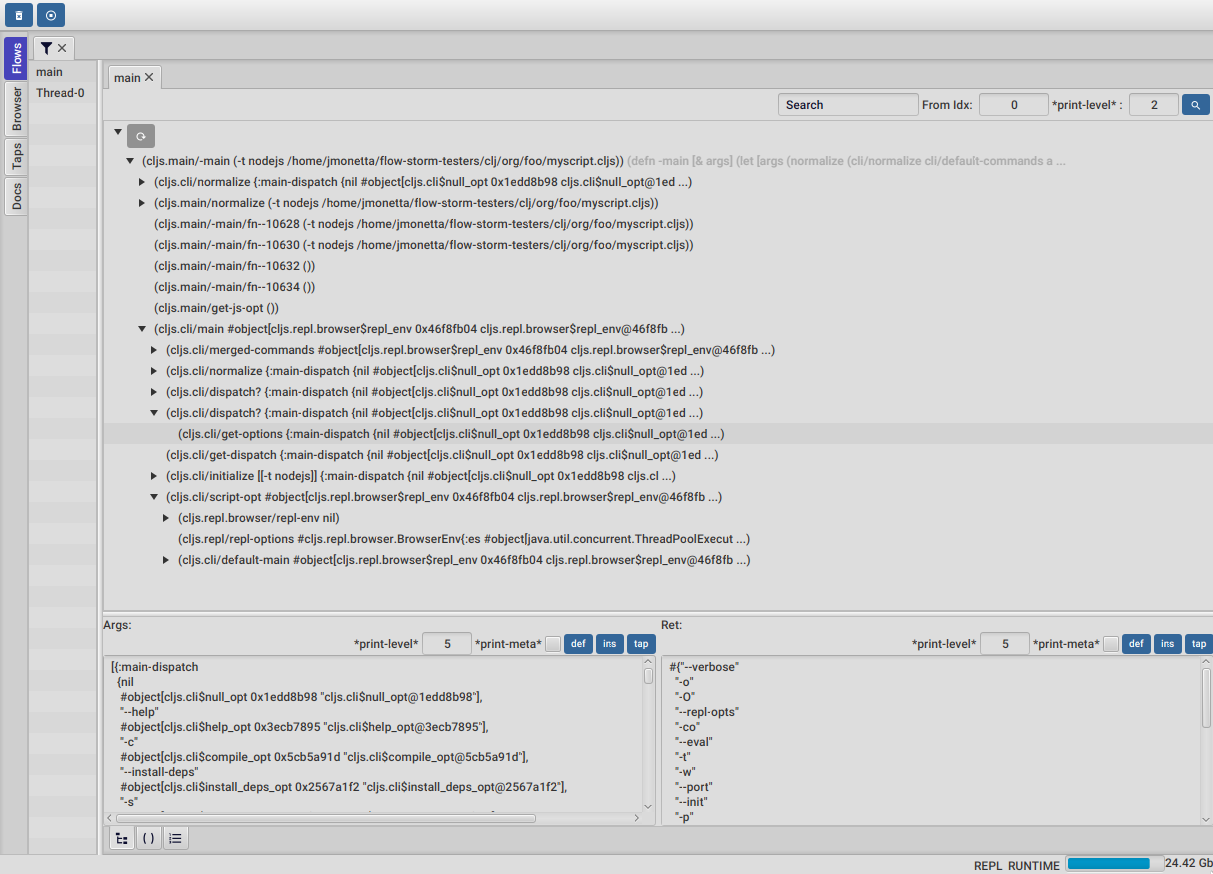
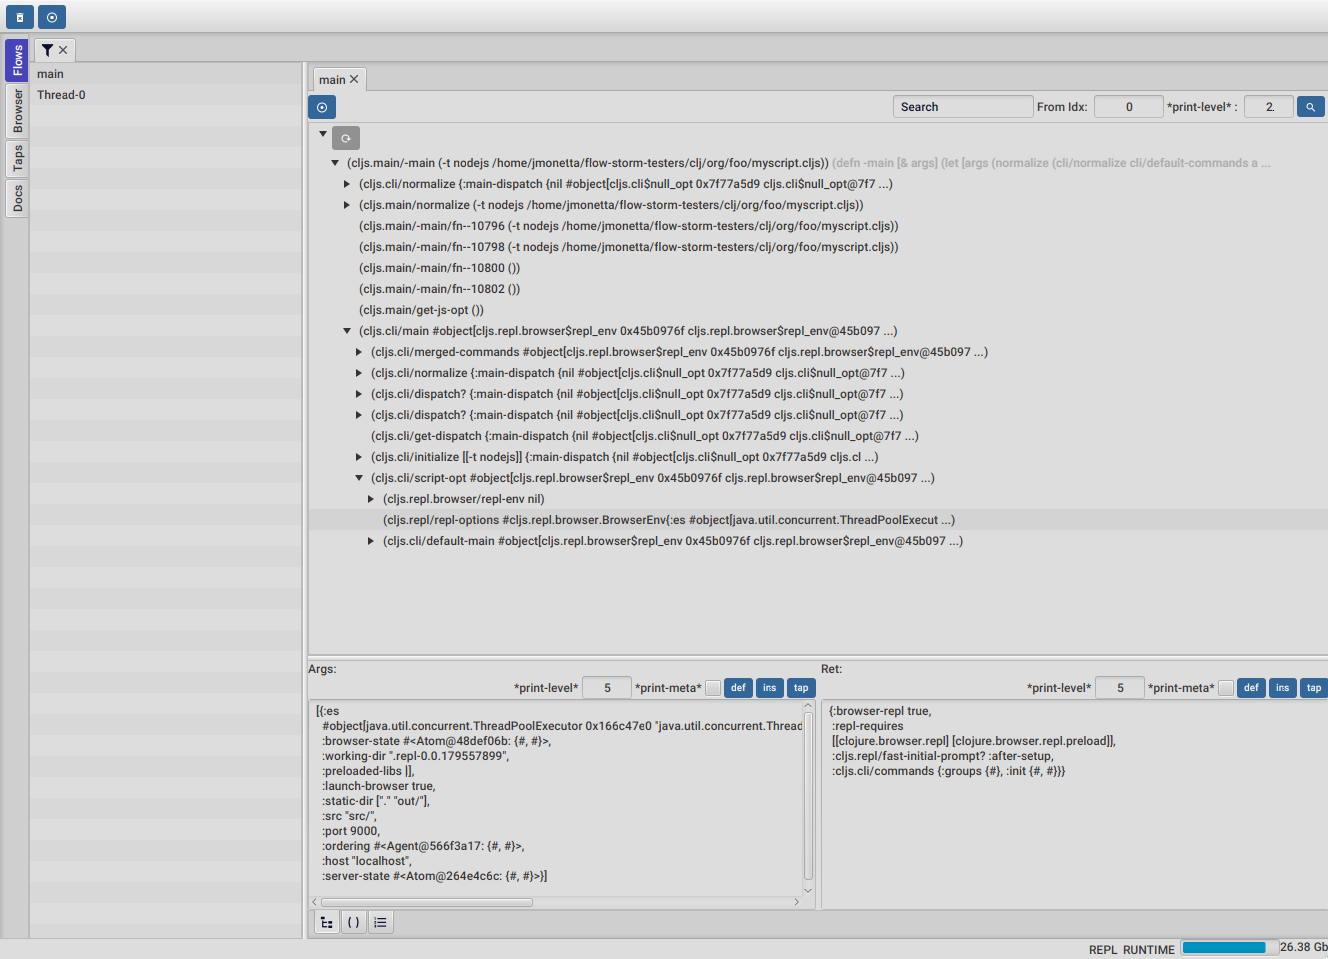
Add "Highlight current frame" on the call tree tool

Changed region(s): [[0.0, 0.0, 1.0, 0.9886], [0.7931, 0.9577, 1.0, 1.0]]

diff --git a/docs/user_guide.html b/docs/user_guide.html
@@ -1656,6 +1656,9 @@ You can use the refresh button at the root to update it.</p>
 </table>
 </div>
 <div class="paragraph">
+<p>Use the button at the top left corner of the tree tool to show the current frame of the debugger in the tree.</p>
+</div>
+<div class="paragraph">
 <p>There are also two <a href="#_value_panels">value panels</a> at the bottom that show the arguments and return value for the currently selected function call.</p>
 </div>
 <div class="sect4">
@@ -2057,7 +2060,7 @@ and we want to work with all the values for that coordinate from the repl, then 
 </span><span class="p">(</span><span class="k">defn</span><span class="w"> </span><span class="n">frame-similar-values</span><span class="w"> </span><span class="p">[</span><span class="n">idx</span><span class="p">]</span><span class="w">
   </span><span class="p">(</span><span class="k">let</span><span class="w"> </span><span class="p">[[</span><span class="n">flow-id</span><span class="w"> </span><span class="n">thread-id</span><span class="p">]</span><span class="w"> </span><span class="o">@</span><span class="n">index-api/selected-thread</span><span class="w">
         </span><span class="p">{</span><span class="no">:keys</span><span class="w"> </span><span class="p">[</span><span class="n">frame-index</span><span class="p">]}</span><span class="w"> </span><span class="p">(</span><span class="nf">index-api/get-thread-indexes</span><span class="w"> </span><span class="n">flow-id</span><span class="w"> </span><span class="n">thread-id</span><span class="p">)</span><span class="w">
-        </span><span class="p">{</span><span class="no">:keys</span><span class="w"> </span><span class="p">[</span><span class="n">expr-executions</span><span class="p">]}</span><span class="w"> </span><span class="p">(</span><span class="nf">indexes/frame-data</span><span class="w"> </span><span class="n">frame-index</span><span class="w"> </span><span class="n">idx</span><span class="p">)</span><span class="w">
+        </span><span class="p">{</span><span class="no">:keys</span><span class="w"> </span><span class="p">[</span><span class="n">expr-executions</span><span class="p">]}</span><span class="w"> </span><span class="p">(</span><span class="nf">indexes/frame-data</span><span class="w"> </span><span class="n">frame-index</span><span class="w"> </span><span class="n">idx</span><span class="w"> </span><span class="p">{})</span><span class="w">
         </span><span class="p">{</span><span class="no">:keys</span><span class="w"> </span><span class="p">[</span><span class="n">coor</span><span class="p">]}</span><span class="w"> </span><span class="p">(</span><span class="nf">indexes/timeline-entry</span><span class="w"> </span><span class="n">frame-index</span><span class="w"> </span><span class="n">idx</span><span class="p">)]</span><span class="w">
 
     </span><span class="p">(</span><span class="nf">-&gt;&gt;</span><span class="w"> </span><span class="n">expr-executions</span><span class="w">
@@ -2418,7 +2421,7 @@ by providing <code>:verbose? true</code> to the options map.</p>
 </div>
 <div id="footer">
 <div id="footer-text">
-Last updated 2023-04-17 07:33:00 -0300
+Last updated 2023-04-18 14:12:18 -0300
 </div>
 </div>
 </body>

diff --git a/CHANGELOG.md b/CHANGELOG.md
@@ -4,6 +4,8 @@
 	
 ### New Features
 
+	- Add "Highlight current frame" on the call tree tool
+	
 ### Changes
 	
 ### Bugs fixed
